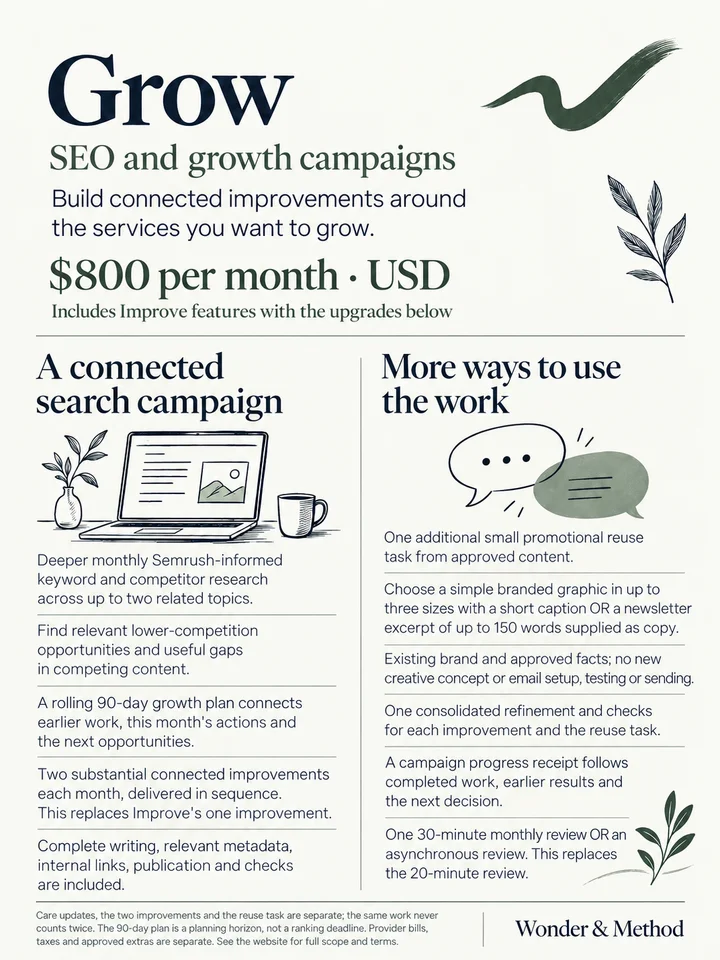
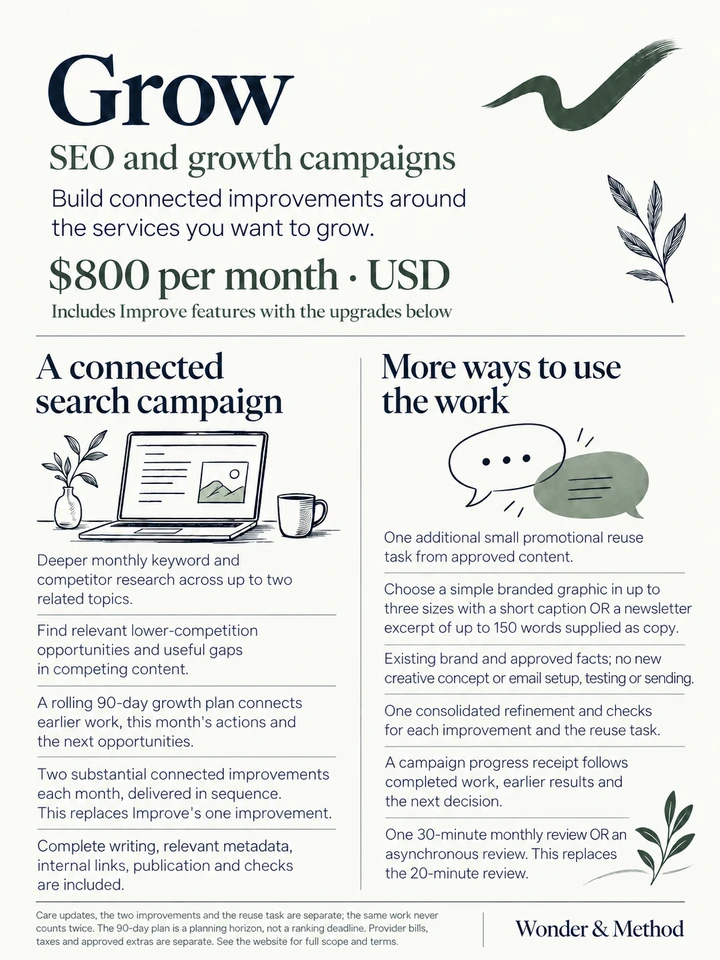
Unify studio page layouts and public keyword research language

diff --git a/src/assets/site-refresh.css b/src/assets/site-refresh.css
@@ -451,3 +451,20 @@ form>.optional-choice{margin:1.25rem 0}
 .seo-plan-summary{display:grid;grid-template-columns:repeat(2,minmax(0,1fr));gap:1.5rem;margin:1.5rem 0}
 .seo-plan-summary article{border-top:1px solid var(--line);padding-top:1rem}
 @media(max-width:600px){.seo-plan-summary{grid-template-columns:1fr}.studio-site .process-intro{padding-top:1.5rem}.process-route{grid-template-columns:repeat(2,minmax(0,1fr));gap:.7rem}.process-route a{min-height:55px}}
+
+/* One introduction scale for studio pages. Home and fictional concept identities
+   retain their own composition; guides retain their centered reading column. */
+.studio-site{--page-title-size:clamp(2.35rem,4.6vw,4.5rem);--intro-space-before:2.5rem;--intro-space-after:2rem;--intro-title-gap:1.2rem}
+.studio-site.studio-inner .page-intro{padding:var(--intro-space-before) 0 var(--intro-space-after);margin-bottom:1.5rem}
+.studio-site.studio-inner .page-intro h1,.studio-site .journal-header h1{font-size:var(--page-title-size);line-height:1.06;margin-block:.75rem var(--intro-title-gap);max-width:26ch}
+.studio-site.studio-inner .page-intro .lede,.studio-site .journal-header .lede{font-size:1.1rem;line-height:1.7;max-width:66ch}
+.studio-site .journal-header{margin-top:0;padding-top:var(--intro-space-before);padding-bottom:var(--intro-space-after);margin-bottom:2.5rem}
+.studio-site .journal-header h1{max-width:24ch}
+.studio-site .journal-header .lede{max-width:52ch}
+.seo-content .continuing-grid>article{display:flex;flex-direction:column;min-width:0}
+.seo-content .continuing-grid>article>.button:last-child{align-self:flex-start;margin-top:auto}
+@media(min-width:768px){.continuing-grid:has(>article:nth-child(2):last-child){grid-template-columns:repeat(2,minmax(0,1fr))}}
+@media(max-width:767px){
+ .studio-site{--intro-space-before:1.75rem;--intro-space-after:1.75rem}
+ .studio-site.studio-inner .page-intro .lede,.studio-site .journal-header .lede{font-size:1rem}
+}
